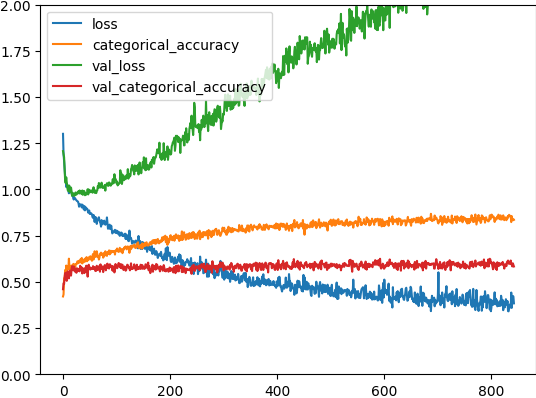
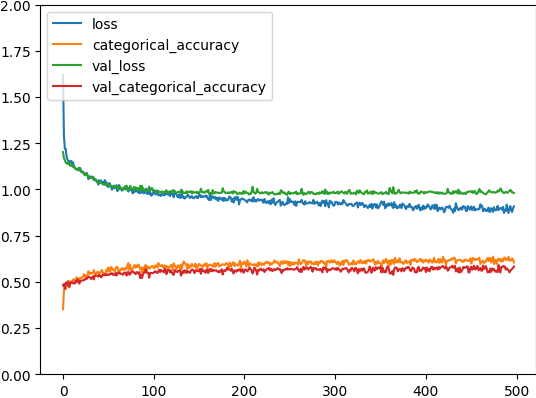
a

diff --git a/Scripts/conv_model_classification.py b/Scripts/conv_model_classification.py
@@ -21,6 +21,7 @@ from sklearn.model_selection import LeaveOneOut,KFold, train_test_split
 imgs_location = '../Results/Test_2/Data'
 data = pd.read_csv('../Data/winequality-red.csv',sep=';')
 train_y = data.pop('quality').values
+train_X_tabular = np.array(data.values)
 
 categorical_classes = tf.keras.utils.to_categorical(train_y)
 
@@ -41,6 +42,12 @@ def double_expand_dims(np_array):
 
     return expanded_array 
 
+def single_expand_dims(np_array):
+
+    expanded_array = np.expand_dims(np_array,axis= 2)
+
+    return expanded_array
+
 def make_dataset(X_data,y_data,n_splits):
 
     def gen():
@@ -54,8 +61,8 @@ def make_dataset(X_data,y_data,n_splits):
 for count, this_img in enumerate(imgs_list):
 
     temp_img = np.loadtxt(this_img, comments="#", delimiter="\t", unpack=False)
-    temp_img = cv2.resize(temp_img, (img_height,img_width))
-    temp_img = double_expand_dims(temp_img)
+    # temp_img = cv2.resize(temp_img, (img_height,img_width))
+    temp_img = single_expand_dims(temp_img)
 
     if count > 0:
         train_X = np.concatenate([train_X,temp_img],axis = 0)
@@ -63,28 +70,30 @@ for count, this_img in enumerate(imgs_list):
         train_X = temp_img
 
 model = Sequential([
-    layers.experimental.preprocessing.Rescaling(1./255),
-    layers.Conv2D(4, (3,3), padding='same', activation='relu'),
-    layers.MaxPooling2D(pool_size=(2, 2)),
-    layers.Dropout(0.2),
+    # layers.experimental.preprocessing.Rescaling(1./255),
+    # layers.Conv2D(4, (2,2), padding='same', activation='relu',kernel_regularizer=tf.keras.regularizers.L1L2()),
+    # layers.MaxPooling2D(pool_size=(2, 2)),
+    # layers.Dropout(0.6),
     # layers.Conv2D(8, (2), padding='same', activation='relu'),
     # layers.Dropout(0.2),
     # layers.MaxPooling2D(pool_size=(2, 2)),
     # layers.Conv2D(16, (2), padding='same', activation='relu'),
     # layers.MaxPooling2D(),
     # layers.Dropout(0.2),
-    layers.Flatten(),
-    layers.Dense(128, activation='relu'),
+    # layers.Flatten(),
+    layers.Bidirectional(layers.LSTM(128, return_sequences=False)),
+    layers.Dropout(0.75),
+    # layers.Dense(4, activation='relu'),
     layers.Dense(num_classes,activation='sigmoid')
 ])
 
-model.compile(optimizer=tf.keras.optimizers.Adam(learning_rate=0.005),
+model.compile(optimizer=tf.keras.optimizers.Adam(learning_rate=0.001),
             loss=tf.keras.losses.CategoricalCrossentropy(),
             metrics=['categorical_accuracy'])
 
-es = tf.keras.callbacks.EarlyStopping(monitor='val_categorical_accuracy', patience=250 ,restore_best_weights=True)
+es = tf.keras.callbacks.EarlyStopping(monitor='val_loss', patience=250 ,restore_best_weights=True)
 
-X_train, X_test, y_train, y_test = train_test_split(train_X, categorical_classes, test_size=0.33, random_state=42)
+X_train, X_test, y_train, y_test = train_test_split(np.expand_dims(train_X_tabular,axis = 1), categorical_classes, test_size=0.33, random_state=42)
 
 epochs = 10000
 history = model.fit(
@@ -102,6 +111,5 @@ plt.legend(loc="upper left")
 plt.ylim([0,2])
 plt.savefig(fname='training_history.png', bbox_inches='tight',pad_inches=0)
 plt.show()
-
 
 print('eof')
